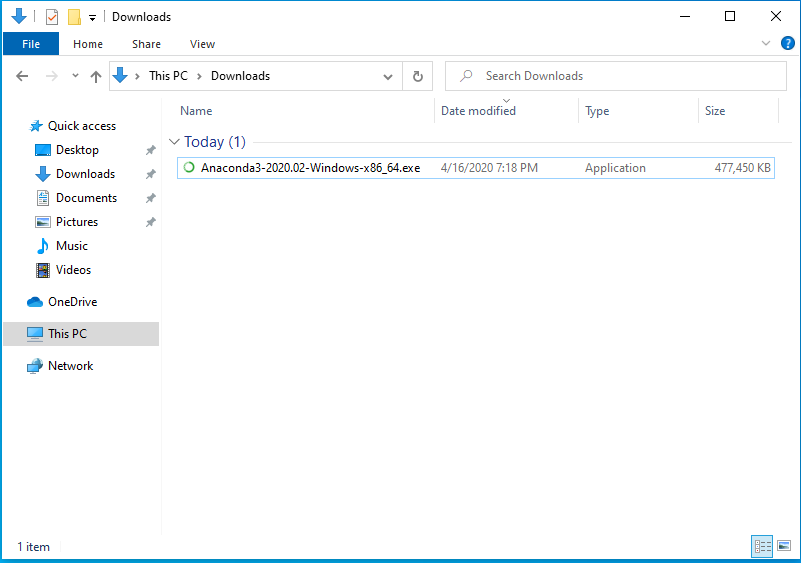
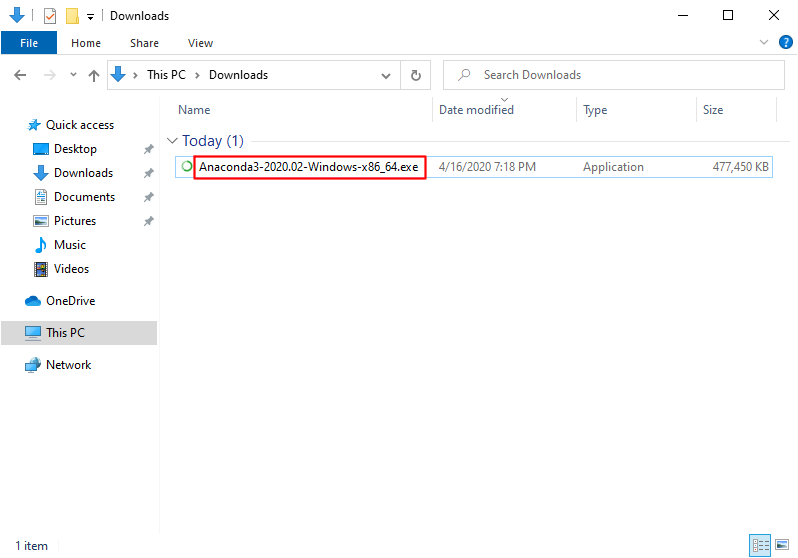
Create Anaconda installation docs

diff --git a/01_getting_set_up/05_install_anaconda.md b/01_getting_set_up/05_install_anaconda.md
@@ -4,6 +4,78 @@ title: Installing Anaconda
 date: April 17, 2020
 ---
 
-# Download Installer
+# Installing Anaconda
+
+---
 
 1. Download the Anaconda for Windows installer (https://repo.anaconda.com/archive/Anaconda3-2020.02-Windows-x86_64.exe).
+2. Once the download is complete, run the installer (Anaconda3-2020.02-Windows-x86_64.exe).
+
+![Anaconda installer in File Explorer](assets/img/anaconda_01_installer_exe.png)
+
+---
+
+On the installer splash screen, click "Next".
+
+![Anaconda installer splash screen](assets/img/anaconda_02_installer_splash_screen.png)
+
+---
+
+On the "License Agreement" screen, click "I Agree".
+
+![Anaconda license agreement screen](assets/img/anaconda_03_license_agreement.png)
+
+---
+
+On the "Select Installation Type" screen:
+
+1. Select "Just Me".
+2. Click "Next".
+
+![Anaconda installation type screen](assets/img/anaconda_04_installation_type.png)
+
+---
+
+On the "Choose Install Location" screen, click "Next".
+
+![Anaconda install location screen](assets/img/anaconda_05_install_location.png)
+
+---
+
+On the "Advanced Installation Options" screen:
+
+1. Check the box for "Add Anaconda3 to my PATH environment variable"
+2. Check the box for "Register Anaconda3 as my default Python 3.7"
+3. Click "Install".
+
+![Anaconda advanced install options screen](assets/img/anaconda_06_advanced_install_options.png)
+
+---
+
+The "Installing" window shows the installation progress.
+
+This process will take a while.
+
+![Anaconda installation progress screen](assets/img/anaconda_07_installation_progress.png)
+
+---
+
+On the "Installation Complete" screen, click "Next".
+
+![Anaconda installation complete screen](assets/img/anaconda_08_install_complete.png)
+
+---
+
+On the "Anaconda + JetBrains" screen, click "Next".
+
+![Anaconda PyCharm screen](assets/img/anaconda_09_pycharm.png)
+
+---
+
+On the final screen:
+
+1. Uncheck "Anaconda Individual Edition Tutorial"
+2. Uncheck "Learn More About Anaconda"
+3. Click "Finish".
+
+![Anaconda setup complete](assets/img/anaconda_10_setup_complete.png)
